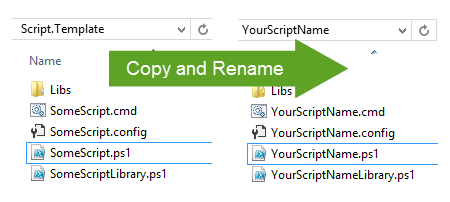
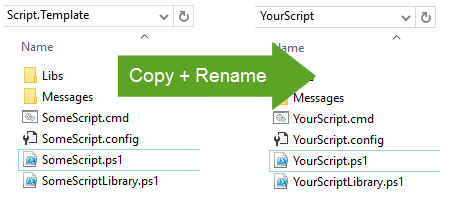
Updated documentation.

diff --git a/README.md b/README.md
@@ -8,6 +8,7 @@ PowerShell script template
 * Runs from UNC path by local copy workaround
 * Exit code handling
 * Input argument handling
+* Localization of text strings
 
 ## Usage
 
@@ -16,19 +17,22 @@ PowerShell script template
 3. Rename SomeScript.config -> YourScriptName.config
 4. Rename SomeScript.ps1 -> YourScriptName.ps1
 5. Rename SomeScriptLibrary.ps1 -> YourScriptNameLibrary.ps1
-![Output](../master/doc/images/CopyAndRenameTemplate.png)
+5. Rename Messages\SomeScriptMessages.psd1 -> Messages\YourScriptMessages.psd1
+5. Rename Messages\<culture>\SomeScriptMessages.psd1 -> Messages\<culture>\YourScriptMessages.psd1
+![](./doc/images/CopyAndRenameTemplate.png)
+![](./doc/images/CopyAndRenameTemplate-Messages.png)
 6. Develop your code in the Run function in YourScriptName.ps1. Make sure to return a relevant exit code. Exit code 0 is normally regarded as success. Also consider updating the script version.
-![Output](../master/doc/images/MainScript.png)
+![](./doc/images/MainScript.png)
 7. Develop any user defined functions in YourScriptNameLibrary.ps1 to keep the main script clean
-![Output](../master/doc/images/UserFunctions.png)
-8. To execute your script, run: YourScriptName.cmd "yourexampleparameter1"
-![Output](../master/doc/images/YourScriptOutput.png)
-9. Log file is located here: %public%\Logs\YourScriptName\YourScriptName-%USERNAME%.log
+![](./doc/images/UserFunctions.png)
+8. To execute your script, run: YourScriptName.cmd "yourexampleparameter1" "yourexampleparameter2"
+![](./doc/images/YourScriptOutput.png)
+9. Log file is located here: "%public%\Logs\YourScriptName\YourScriptName-%USERNAME%.log" or in "<ScriptFolder>\Logs\YourScriptName-%USERNAME%.log" depending on the boolean value of $global:storeLogFilesInPublicLogsFolder
 
-## Example
+## Examples
 
-* [AddCurrentUserToGroup.ps1](../master/src/Examples/AddCurrentUserToGroup)
+* [AddCurrentUserToGroup.ps1](./src/Examples/AddCurrentUserToGroup)
 This script supports adding current user to a specified Active Directory group
 
-* [SetWallPaperWithText.ps1](../master/src/Examples/SetWallPaperWithText)
+* [SetWallPaperWithText.ps1](./src/Examples/SetWallPaperWithText)
 Write a text (spesified in a text file) to the copy of an image and then set the resulting image as wallpaper. The script uses a inline C# class utilizing the ImageMagick .NET library Magick.NET
